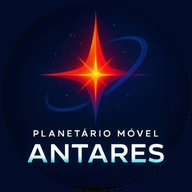
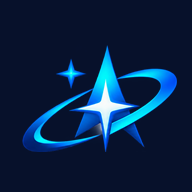
Atualiza identidade visual do PWA ANTARES BUSINESS

Changed region(s): [[0.0938, 0.0625, 0.9375, 0.875], [0.375, 0.9688, 0.625, 1.0]]

diff --git a/src/app/manifest.ts b/src/app/manifest.ts
@@ -2,7 +2,7 @@ import type { MetadataRoute } from 'next';
 
 export default function manifest(): MetadataRoute.Manifest {
   return {
-    name: 'ANTARES — Planetário Móvel',
+    name: 'ANTARES BUSINESS',
     short_name: 'ANTARES',
     description: 'Gestão do Planetário Móvel ANTARES.',
     start_url: '/',
@@ -11,9 +11,9 @@ export default function manifest(): MetadataRoute.Manifest {
     background_color: '#07112b',
     theme_color: '#123c92',
     icons: [
-      { src: '/antares-icon-192.png', sizes: '192x192', type: 'image/png', purpose: 'any' },
-      { src: '/antares-icon-512.png', sizes: '512x512', type: 'image/png', purpose: 'any' },
-      { src: '/antares-maskable-512.png', sizes: '512x512', type: 'image/png', purpose: 'maskable' },
+      { src: '/antares-icon-192.png?v=2', sizes: '192x192', type: 'image/png', purpose: 'any' },
+      { src: '/antares-icon-512.png?v=2', sizes: '512x512', type: 'image/png', purpose: 'any' },
+      { src: '/antares-maskable-512.png?v=2', sizes: '512x512', type: 'image/png', purpose: 'maskable' },
     ],
   };
 }

diff --git a/src/app/layout.tsx b/src/app/layout.tsx
@@ -1,5 +1,5 @@
 import type { Metadata, Viewport } from 'next';
 import './globals.css';
-export const metadata:Metadata = {title:'Planetário Móvel ANTARES',description:'Gestão do Planetário Móvel ANTARES',applicationName:'Planetário Móvel ANTARES',appleWebApp:{capable:true,title:'ANTARES'},icons:{icon:'/antares-icon-512.png',apple:'/antares-icon-512.png'}};
+export const metadata:Metadata = {title:'Planetário Móvel ANTARES',description:'Gestão do Planetário Móvel ANTARES',applicationName:'ANTARES BUSINESS',appleWebApp:{capable:true,title:'ANTARES'},icons:{icon:'/antares-icon-512.png?v=2',apple:'/antares-icon-512.png?v=2'}};
 export const viewport:Viewport={width:'device-width',initialScale:1,themeColor:'#123c92'};
 export default function RootLayout({children}:{children:React.ReactNode}) {return <html lang="pt-BR"><body>{children}</body></html>}
